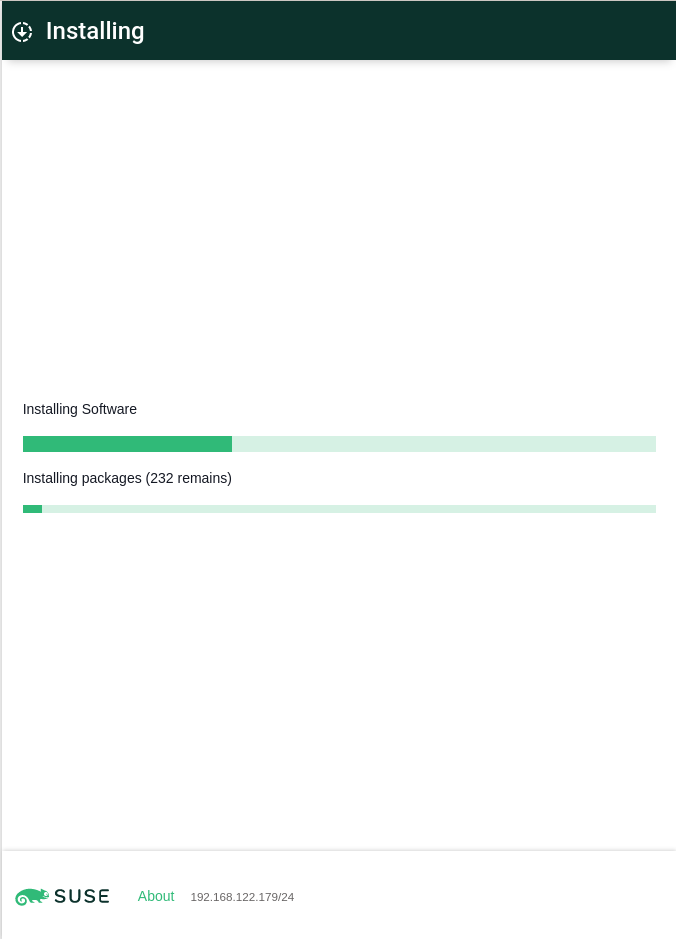
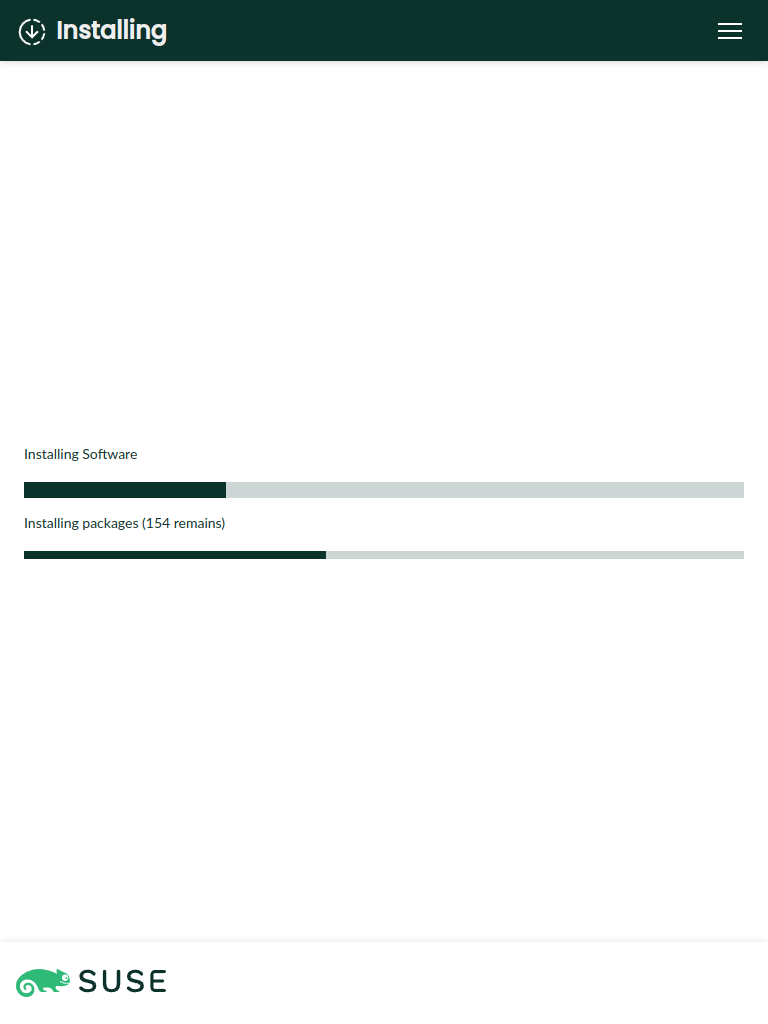
Updated screenshots, automate the process using Playwright

diff --git a/playwright/tests/take_screenshots.spec.ts b/playwright/tests/take_screenshots.spec.ts
@@ -1,0 +1,111 @@
+import { test, expect } from "@playwright/test";
+import { mainPagePath } from "../lib/installer";
+
+// This test was designed for collecting the screenshots for the main
+// README.md file. To take screenshots of the installation process run this:
+// 
+//   RUN_INSTALLATION=1 BASE_URL=https://<host>:9090 npx playwright test --headed take_screenshots
+// 
+// The "--headed" option shows the browser window so you can see the progress.
+// You can use the "--debug" option to run the test step-by-step.
+// The screenshots are saved to the "screenshots/" subdirectory.
+
+// minute in miliseconds
+const minute = 60 * 1000;
+
+test.describe("The Installer", () => {
+  test.beforeEach(async ({ page }) => {
+    await page.goto(mainPagePath());
+  });
+
+  test("installs the system", async ({ page }) => {
+    // maximum time for this test to run
+    test.setTimeout(60 * minute);
+
+    // set screenshot size to 768x1024
+    page.setViewportSize({ width: 768, height: 1024 });
+
+    // optional product selection
+    await test.step("Select the product", async () => {
+      // optional product selection
+      try {
+        await page.getByText("Product selection").waitFor({ timeout: 5000 });
+        // select openSUSE Tumbleweed
+        await page.getByText("openSUSE Tumbleweed").click();
+        await page.screenshot({ path: "screenshots/product-selection.png" });
+        await page.getByRole("button", { name: "Select" }).click();
+      }
+      catch (error) {
+        // do not ignore other errors
+        if (error.constructor.name !== "TimeoutError") throw(error);
+      }
+    });
+
+    // the the root password must be set
+    await test.step("Set the root password", async () => {
+      try {
+        await page.getByText("None authentication method").waitFor({ timeout: 10000 });
+        await page.locator("a[href='#/users']").click();
+        await page.locator("#actions-for-root-password").click();
+        await page.getByRole("menuitem", { name: "Set" }).click();
+        await page.locator("#password").fill("linux");
+        await page.locator("#passwordConfirmation").fill("linux");
+        await page.locator('button[type="submit"]').click();
+        await page.getByText("Back").click();
+        }
+      catch (error) {
+        // do not ignore other errors
+        if (error.constructor.name !== "TimeoutError") throw(error);
+      }
+    });
+
+    // ensure the software proposal is ready, use longer timeout,
+    // refreshing the repositories takes some time
+    await expect(page.getByText("Installation will take")).toBeVisible({timeout: 2 * minute});
+    await page.screenshot({ path: "screenshots/overview.png" });
+
+    await test.step("Storage configuration", async () => {
+      // create storage page screenshot
+      await page.locator("a[href='#/storage']").click();
+      await expect(page.getByRole("button", { name: "Settings" })).toBeVisible();
+      await page.screenshot({ path: "screenshots/storage-page.png" });
+
+      // create storage settings screenshot
+      await page.getByRole("button", { name: "Settings" }).click();
+      await expect(page.locator("[role='dialog']")).toBeVisible();
+      await page.screenshot({ path: "screenshots/storage-settings.png" });
+      await page.getByRole("button", { name: "Cancel" }).click();
+      await page.getByText("Back").click();
+    });
+
+    // confirm the installation only when explicitly set via the environment
+    if (process.env.RUN_INSTALLATION === "1") {
+      await test.step("Run installation",  async () => {
+        // start the installation
+        await page.getByRole("button", { name: "Install", exact: true }).click();
+        await expect(page.getByText("Confirm Installation")).toBeVisible();
+        await page.getByRole("button", { name: "Continue" }).click();
+        
+        // wait for the package installation progress
+        await expect(page.getByText("Installing packages")).toBeVisible({timeout: 5 * minute});
+
+        // create package installation screenshot every half a minute
+        let screenshot_index = 0;
+        while (true) {
+          await page.screenshot({ path: `screenshots/installation_${screenshot_index++}.png` });
+          
+          try {
+            await page.getByRole("heading", { name: "Congratulations!" }).waitFor({timeout: minute / 2});
+            // the finish screen is displayed
+            await page.screenshot({ path: "screenshots/finished.png" });
+            break;
+          }
+          catch (error) {
+            // do not ignore other errors
+            if (error.constructor.name !== "TimeoutError") throw(error);
+          }
+        }
+      });
+    }
+  });
+})

diff --git a/playwright/playwright.config.ts b/playwright/playwright.config.ts
@@ -27,15 +27,17 @@ const config: PlaywrightTestConfig = {
   forbidOnly: !!process.env.CI,
   /* Retry on CI only */
   retries: process.env.CI ? 2 : 0,
-  /* Opt out of parallel tests on CI. */
-  workers: process.env.CI ? 1 : undefined,
+  /* Because of test dependencies or race conditions run all tests in sequence, */
+  /* later we could use a serial-parallel approach using the test lists, */
+  /* see https://playwright.dev/docs/test-parallel#use-a-test-list-file */
+  workers: 1,
   /* Reporter to use. See https://playwright.dev/docs/test-reporters */
   reporter: process.env.GITHUB_ACTIONS ? 'github' : 'list',
   globalSetup: require.resolve('./global-setup'),
   /* Shared settings for all the projects below. See https://playwright.dev/docs/api/class-testoptions. */
   use: {
     /* Maximum time each action such as `click()` can take. Defaults to 0 (no limit). */
-    actionTimeout: 0,
+    actionTimeout: 30000,
     /* Base URL to use in actions like `await page.goto('/')`. */
     baseURL: process.env.BASE_URL || 'http://localhost:9090',
 

diff --git a/playwright/README.md b/playwright/README.md
@@ -39,6 +39,22 @@ To run just a specific test:
 npx playwright test tests/root_password.spec.ts
 ```
 
+## Updating the Screenshots
+
+There is one test specially designed for refreshing the screenshots displayed
+in the main `README.md` file.
+
+To fully run the installation run this:
+
+```
+RUN_INSTALLATION=1 BASE_URL=https://<host>:9090 npx playwright test --headed take_screenshots
+```
+
+The `--headed` option shows the browser window so you can see the progress.
+You can use the `--debug` option to run the test step-by-step.
+
+The screenshots are saved to the `screenshots/` subdirectory.
+
 ## Target Server
 
 By default the tests use the installer instance running locally at

diff --git a/README.md b/README.md
@@ -23,6 +23,9 @@ D-Installer is a new Linux installer born in the core of the YaST team. It is de
 |-|-|
 | ![Installing](./doc/images/screenshots/installing.png) | ![Installation finished](./doc/images/screenshots/finished.png) |
 
+*Note for developers: For updating the screenshots see the
+[integration test documentation](playwright/README.md#updating-the-screenshots).*
+
 </details>
 
 ## Table of Content
